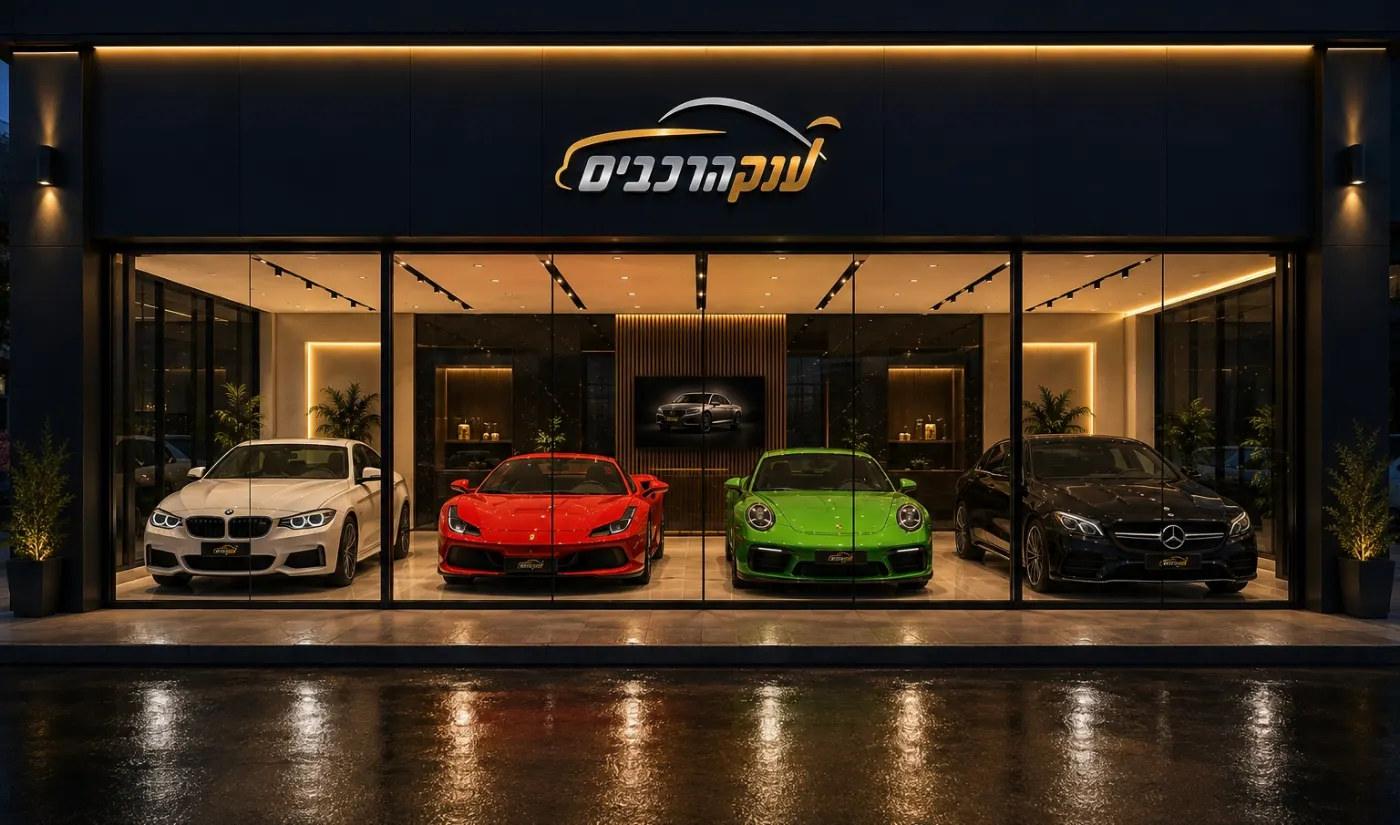
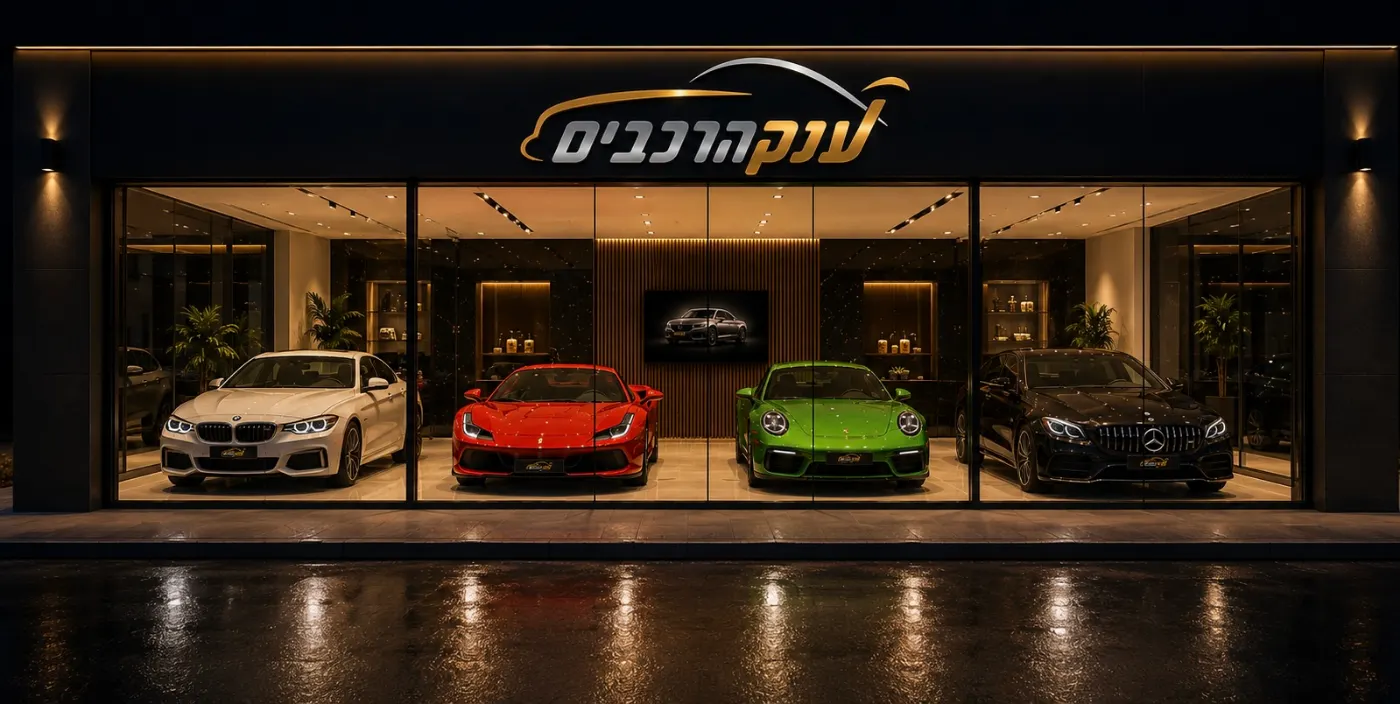
תצלום חדש, כותרת בשורה אחת וסידור ארבעת עמודי הטופס
התצלום
הוחלף בתצלום חזיתי ביחס 2:1, שיושב הרבה יותר טוב במסגרת
רחבה. החיתוך מיושר לקצה העליון כך שהשלט עם הלוגו נשאר שלם
בכל רוחב מסך, והגובה ממשיך לגדול יחד עם הרוחב. דף הבית אף
ירד ל-332KB.

הכותרת במחשב
הכל בשורה אחת: הסמלים בימין, התפריט באמצע, הטלפון בשמאל.
המסגרת סביב הטלפון הוסרה. התפריט הועבר לתוך שורת הכותרת
במקום סרגל נפרד, וכך הכותרת נמוכה בהרבה.

עשרה קישורים בשורה אחת יחד עם הטלפון והסמלים לא נכנסו
ברוחב רגיל, ולכן "מעוניינים למכור לנו את הרכב?" קוצר
ל"מכירת רכב". מ-1440 ומעלה הכל בשורה אחת; במסכים צרים יותר
התפריט יורד לשתי שורות.

מחשבון המימון
צמוד עכשיו למשפט שמעליו, ברווח קטן בלבד.

ארבעת עמודי הטופס
מחשבון מימון, טרייד אין, מכירת רכב וצור קשר — בכולם התיבה
ראשונה בחלק העליון וממורכזת, והטקסט מתחתיה ממורכז גם הוא.

נבדק: שנים עשר עמודים בשני הגדלים, וחמישה רוחבי מסך
מ-1100 עד 1920 — אין גלישה לרוחב בשום מצב.

Claude-Session: https://claude.ai/code/session_016iuMWu4YbWdXw89cY1KnoH

diff --git a/web/app/theme-light.css b/web/app/theme-light.css
@@ -1249,22 +1249,29 @@ section.hero.heroFinder > picture > img {
   .topbar .logo { display: none !important; }
   .topbar .location { display: none !important; }
 
+  /* שורה אחת: הסמלים בימין, התפריט באמצע, הטלפון בשמאל */
   .headerInner {
     height: auto !important;
-    flex-direction: column;
-    justify-content: center !important;
-    gap: 10px !important;
-    padding-block: 14px;
+    flex-direction: row;
+    align-items: center;
+    justify-content: space-between !important;
+    gap: 18px !important;
+    padding-block: 8px;
   }
-  /* הטלפון למעלה, והסמלים בשורה שמתחתיו */
-  .headerActions { flex-direction: column; gap: 10px; }
-  .headerInner .headerSocial { margin-inline-start: 0 !important; order: 2; }
-  .phone { padding: 10px 22px !important; }
+  .headerInner .headerSocial { order: 1; margin-inline-start: 0 !important; flex: none; }
+  .headerInner .nav { order: 2; flex: 1 1 auto; min-width: 0; }
+  .headerInner .headerActions { order: 3; flex: none; }
+  .phone { border: 0 !important; padding: 8px 4px !important; }
 
-  /* התפריט — ממורכז, בלי קווים מפרידים, בכיתוב גדול.
-     הריווח והגודל נגזרים מרוחב המסך כדי שעשרת הקישורים ייכנסו
-     בשורה אחת, ואם בכל זאת אין מקום הם יורדים לשורה שנייה. */
+  /* התפריט בתוך שורת הכותרת — בלי רקע ובלי קו תחתון משלו */
+  .headerInner .nav {
+    background: transparent !important;
+    border: 0 !important;
+    box-shadow: none !important;
+    position: static !important;
+  }
   .navLinks {
+    min-height: 0 !important;
     justify-content: center !important;
     flex-wrap: wrap;
     gap: 0 2px;
@@ -1272,11 +1279,13 @@ section.hero.heroFinder > picture > img {
   .nav .navLinks a {
     flex: none !important;
     border: 0 !important;
-    padding: 17px clamp(7px, 1.05vw, 20px) !important;
-    font-size: clamp(15px, 1.12vw, 18px) !important;
+    padding: 10px clamp(5px, 0.62vw, 14px) !important;
+    font-size: clamp(13.5px, 0.92vw, 17px) !important;
     font-weight: 700 !important;
     white-space: nowrap;
   }
+  /* הקו הזהוב עובר לתחתית הכותרת כולה */
+  .topbar { border-bottom: 2px solid var(--gold) !important; }
 }
 
 /* ═══════════════════════════════════════════════
@@ -1286,15 +1295,15 @@ section.hero.heroFinder > picture > img {
    התצלום. ככל שהמסך רחב יותר כך נחתך ממנו יותר לגובה, ולכן
    הגובה גדל יחד עם הרוחב — אחרת השלט היה נעלם במסכים רחבים. */
 @media (min-width: 901px) {
-  section.hero.heroFinder { min-height: clamp(600px, 43vw, 1050px) !important; }
-  section.hero.heroFinder > img { object-position: center 24% !important; }
+  section.hero.heroFinder { min-height: clamp(540px, 38vw, 950px) !important; }
+  section.hero.heroFinder > img { object-position: center top !important; }
 
   /* קוביית החיפוש באמצע גובה התצלום */
   .finderContent {
     display: flex !important;
     flex-direction: column !important;
     justify-content: center !important;
-    min-height: clamp(600px, 43vw, 1050px);
+    min-height: clamp(540px, 38vw, 950px);
     padding: 30px 0 !important;
   }
 }
@@ -1310,4 +1319,14 @@ section.hero.heroFinder > picture > img {
 @media (min-width: 901px) {
   main:has(.contactSection) .innerHero { padding: 30px 0 !important; }
   main:has(.contactSection) .innerHero h1 { font-size: 38px; margin: 4px 0 6px; }
+}
+
+/* בטלפון התפריט יושב בתוך הכותרת אבל נפתח מתחתיה */
+@media (max-width: 900px) {
+  .topbar { position: relative; }
+  .headerInner .nav {
+    position: absolute; inset-inline: 0; top: 100%;
+    z-index: 60;
+  }
+  .headerInner .nav .navLinks { width: min(100%, 1640px); margin-inline: auto; padding-inline: 24px; }
 }

diff --git a/web/app/home-client.tsx b/web/app/home-client.tsx
@@ -156,9 +156,9 @@ export default function HomeClient({ initialCars }: { initialCars: DisplayCar[] 
       <header className="topbar"><div className="shell headerInner">
         <a className="logo" href="#top" onClick={resetAllCalculators} aria-label="ענק הרכבים - דף הבית"><Logo eager /></a>
         <SocialLinks /><div className="headerActions"><a className="location" href="https://waze.com/ul?ll=31.9888,34.77084&navigate=yes" target="_blank" rel="noreferrer">⌖ <span>דוד רזיאל 4, ראשון לציון</span></a><a className="phone" href={`tel:${BUSINESS.dial}`}><small>חייגו עכשיו</small><strong>*2369</strong><span>☎</span></a></div>
-        <button className="menuButton" onClick={() => setMobileOpen(!mobileOpen)} aria-label="פתיחת תפריט">☰</button>
+        <nav className={`nav ${mobileOpen ? "open" : ""}`}><div className="navLinks" onClick={() => setMobileOpen(false)}><a href="#top" onClick={resetAllCalculators}>דף הבית</a><a href="#inventory">מלאי עדכני</a><a href="/finance">מחשבון מימון</a><a href="/trade">טרייד אין</a><a href="/sell">מכירת רכב</a><a href="/contact">צור קשר</a><a href="/compare">השוואת רכבים</a><a href="/account">האזור האישי</a></div></nav><button className="menuButton" onClick={() => setMobileOpen(!mobileOpen)} aria-label="פתיחת תפריט">☰</button>
       </div></header>
-      <nav className={`nav ${mobileOpen ? "open" : ""}`}><div className="shell navLinks"><a href="#top" onClick={resetAllCalculators}>דף הבית</a><a href="#inventory">מלאי עדכני</a><a href="/finance">מחשבון מימון</a><a href="/trade">טרייד אין</a><a href="/sell">מעוניינים למכור לנו את הרכב?</a><a href="/contact">צור קשר</a><a href="/compare">השוואת רכבים</a><a href="/account">האזור האישי</a></div></nav>
+      
 
       {/* שתי תמונות שונות: במסך צר תצלום אחר, לא חיתוך של תמונת המחשב */}
       <section id="top" className="hero heroFinder"><picture>
@@ -177,12 +177,12 @@ export default function HomeClient({ initialCars }: { initialCars: DisplayCar[] 
           />
           <source
             type="image/webp"
-            srcSet="/assets/showroom-sm.webp 1000w, /assets/showroom.webp 1536w"
+            srcSet="/assets/showroom-sm.webp 1000w, /assets/showroom.webp 1599w"
             sizes="100vw"
           />
           <img
             src="/assets/showroom.jpg"
-            srcSet="/assets/showroom-sm.jpg 1000w, /assets/showroom.jpg 1536w"
+            srcSet="/assets/showroom-sm.jpg 1000w, /assets/showroom.jpg 1599w"
             sizes="100vw"
             alt="אולם התצוגה של ענק הרכבים"
             fetchPriority="high"

diff --git a/web/app/site-chrome.tsx b/web/app/site-chrome.tsx
@@ -5,7 +5,7 @@ import { Logo } from "./site-image";
 import SiteNav from "./site-nav";
 
 export function SiteHeader() {
-  return <><SiteNav links={<><a href="/">דף הבית</a><a href="/cars">מלאי עדכני</a><a href="/finance">מחשבון מימון</a><a href="/trade">טרייד אין</a><a href="/sell">מעוניינים למכור לנו את הרכב?</a><a href="/reviews">לקוחות ממליצים</a><a href="/articles">מדריכים</a><a href="/contact">צור קשר</a><a href="/compare">השוואת רכבים</a><a href="/account">האזור האישי</a></>}><a className="logo" href="/"><Logo eager /></a><SocialLinks /><div className="headerActions"><a className="location" href="https://waze.com/ul?ll=31.9888,34.77084&navigate=yes">⌖ דוד רזיאל 4, ראשון לציון</a><a className="phone" href={`tel:${BUSINESS.dial}`}><small>חייגו עכשיו</small><strong>*2369</strong><span>☎</span></a></div></SiteNav></>;
+  return <><SiteNav links={<><a href="/">דף הבית</a><a href="/cars">מלאי עדכני</a><a href="/finance">מחשבון מימון</a><a href="/trade">טרייד אין</a><a href="/sell">מכירת רכב</a><a href="/reviews">לקוחות ממליצים</a><a href="/articles">מדריכים</a><a href="/contact">צור קשר</a><a href="/compare">השוואת רכבים</a><a href="/account">האזור האישי</a></>}><a className="logo" href="/"><Logo eager /></a><SocialLinks /><div className="headerActions"><a className="location" href="https://waze.com/ul?ll=31.9888,34.77084&navigate=yes">⌖ דוד רזיאל 4, ראשון לציון</a><a className="phone" href={`tel:${BUSINESS.dial}`}><small>חייגו עכשיו</small><strong>*2369</strong><span>☎</span></a></div></SiteNav></>;
 }
 
 export function SiteFooter() {

diff --git a/web/app/inner-pages.css b/web/app/inner-pages.css
@@ -76,3 +76,21 @@
   .contactPageGrid .standaloneLead { order: -1; max-width: none !important; margin: 0 !important; }
   .contactDetails { grid-template-columns: repeat(3, minmax(0, 1fr)); }
 }
+
+/* ═══ ארבעת עמודי הטופס ═══
+   מחשבון מימון, טרייד אין, מכירת רכב וצור קשר — התיבה ראשונה
+   בחלק העליון וממורכזת, והטקסט מתחתיה ממורכז גם הוא. */
+@media (min-width: 901px) {
+  .tradeSection { padding-top: 22px !important; }
+  main:has(.tradeSection) .innerHero { padding: 28px 0 !important; }
+  main:has(.tradeSection) .innerHero h1 { font-size: 36px; margin: 4px 0 6px; }
+  main:has(.tradeSection) .innerHero .shell,
+  main:has(.contactSection) .innerHero .shell { text-align: center; }
+  main:has(.tradeSection) .innerHero p,
+  main:has(.contactSection) .innerHero p { margin-inline: auto; max-width: 640px; }
+
+  .tradeSection .tradeLayout { max-width: 760px; }
+  .tradeSection .tradeCard { order: -1; }
+  .tradeSection .tradeIntro { order: 2; text-align: center; }
+  .tradeSection .tradeIntro h2 { font-size: 28px; }
+}

diff --git a/web/app/site-nav.tsx b/web/app/site-nav.tsx
@@ -26,6 +26,15 @@ export default function SiteNav({
       <header className="topbar">
         <div className="shell headerInner">
           {children}
+
+          {/* התפריט יושב בתוך שורת הכותרת: במחשב באמצע, בין
+              הסמלים לטלפון. בטלפון הוא נפתח מתחתיה בכפתור. */}
+          <nav className={`nav ${open ? "open" : ""}`}>
+            <div className="navLinks" onClick={() => setOpen(false)}>
+              {links}
+            </div>
+          </nav>
+
           <button
             className="menuButton"
             type="button"
@@ -37,12 +46,6 @@ export default function SiteNav({
           </button>
         </div>
       </header>
-
-      <nav className={`nav ${open ? "open" : ""}`}>
-        <div className="shell navLinks" onClick={() => setOpen(false)}>
-          {links}
-        </div>
-      </nav>
     </>
   );
 }

diff --git a/web/app/finance.css b/web/app/finance.css
@@ -84,7 +84,10 @@
 
    הסדר ב-HTML לא משתנה, רק הפריסה. */
 @media (min-width: 851px) {
-  .financePage { padding-top: 18px; }
+  /* המחשבון צמוד למשפט שמעליו — רווח קטן בלבד */
+  .financePage { padding-top: 10px !important; }
+  .financeHero { padding-bottom: 22px !important; }
+  .financeHero p { margin-bottom: 0; }
   .financePageGrid { grid-template-columns: 1fr; gap: 38px; }
 
   .financeCalculator { padding: 26px 30px 22px; }
